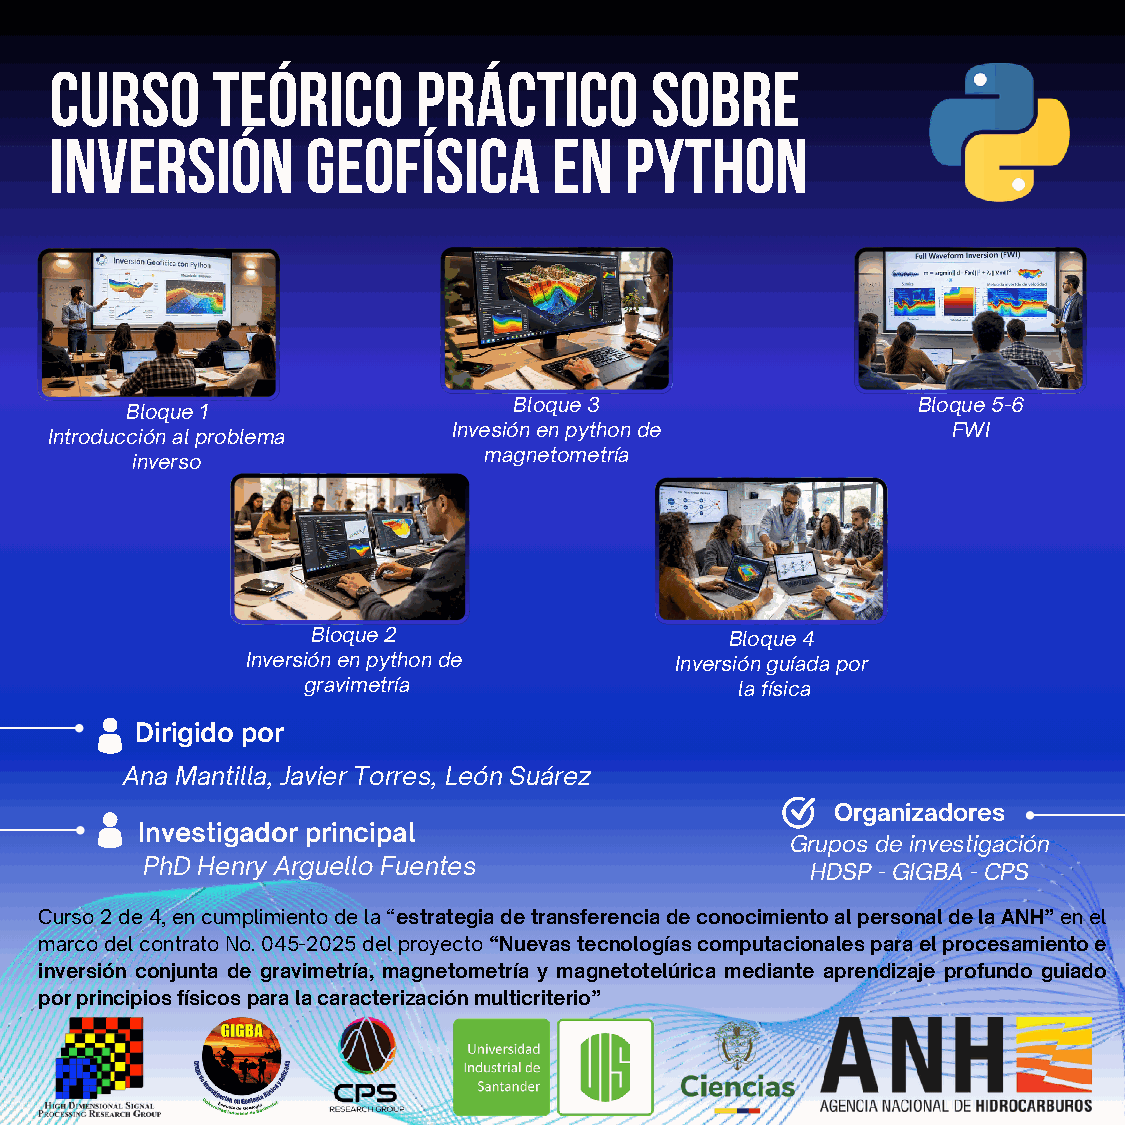
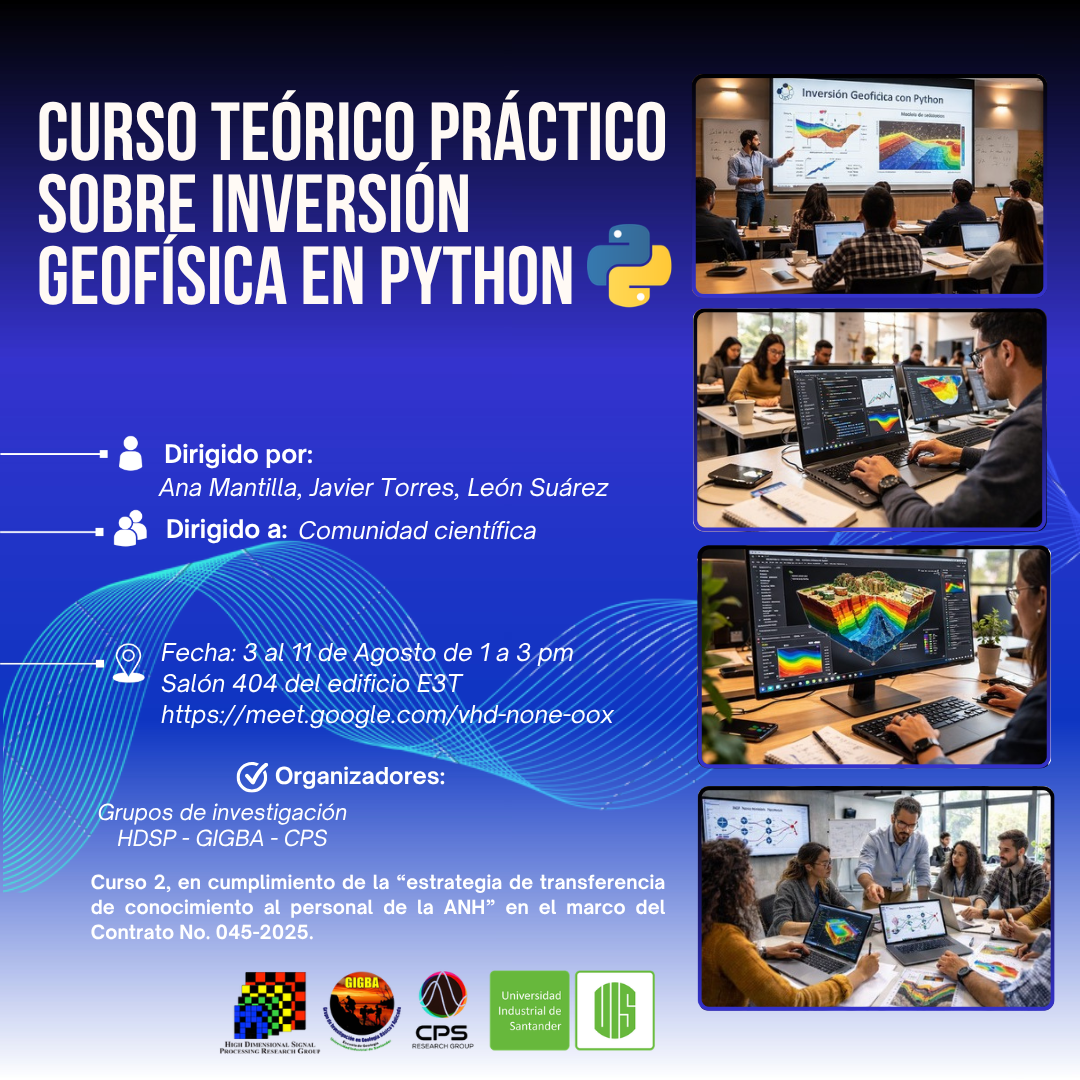
Mejora la presentación visual del curso

diff --git a/README.md b/README.md
@@ -10,6 +10,7 @@
 [![Jupyter](https://img.shields.io/badge/Jupyter-Notebooks-F37626?logo=jupyter&logoColor=white)](https://jupyter.org/)
 [![SimPEG](https://img.shields.io/badge/SimPEG-Geophysics-23395B)](https://simpeg.xyz/)
 [![Course](https://img.shields.io/badge/curso-teórico--práctico-19A7CE)](#ruta-científica)
+[![YouTube](https://img.shields.io/badge/ver-clases_en_YouTube-FF0000?logo=youtube&logoColor=white)](https://www.youtube.com/watch?v=gAqL1yqmJJw&list=PLBrkSquHNyNM)
 
 *Un laboratorio reproducible para explorar la relación*  
 *$\mathbf{d}=\mathcal{F}(\mathbf{m})+\boldsymbol{\varepsilon}$*  
@@ -39,18 +40,23 @@ El curso fue dirigido por **Ana Mantilla, Javier Torres y León Suárez**, con *
 
 ## Arquitectura conceptual
 
-```mermaid
-flowchart LR
-    D["Datos observados d"] --> Q["Control de calidad y unidades"]
-    M["Modelo inicial m₀"] --> F["Operador directo F(m)"]
-    Q --> J["Función objetivo"]
-    F --> J
-    R["Regularización y física"] --> J
-    J --> O["Optimización / entrenamiento"]
-    O --> P["Modelo estimado m*"]
-    P --> V["Validación: predicho vs. observado"]
-    V -. "iterar" .-> J
-```
+<p align="center">
+  <img src="docs/assets/inversion-architecture.svg" width="100%" alt="Arquitectura conceptual de la inversión geofísica: observación, modelado, simulación, función objetivo, optimización, validación e interpretación">
+</p>
+
+La inversión se plantea como un **ciclo iterativo y auditable**: los datos observados y la hipótesis física alimentan el operador directo; la discrepancia entre datos predichos y observados se combina con regularización y conocimiento previo; el modelo se actualiza hasta alcanzar convergencia, y finalmente se evalúan resolución, incertidumbre y coherencia geológica.
+
+## Clases grabadas
+
+<div align="center">
+
+### ▶ [Ver la lista de reproducción completa en YouTube](https://www.youtube.com/watch?v=gAqL1yqmJJw&list=PLBrkSquHNyNM)
+
+[![Reproducir las clases del curso](https://img.youtube.com/vi/gAqL1yqmJJw/maxresdefault.jpg)](https://www.youtube.com/watch?v=gAqL1yqmJJw&list=PLBrkSquHNyNM)
+
+*Revisa las sesiones en orden y utiliza los notebooks de este repositorio como laboratorio práctico.*
+
+</div>
 
 ## Inicio rápido
 
@@ -71,7 +77,7 @@ Abre los notebooks desde su propia carpeta de sesión para conservar las rutas r
 .
 ├── docs/
 │   ├── brochure.pdf          # pieza publicitaria y programa original
-│   └── assets/course-map.png # mapa visual del curso
+│   └── assets/               # publicidad e infografía conceptual
 ├── materials/
 │   ├── session-01/           # introducción y regresión lineal
 │   ├── session-02/           # inversión gravimétrica
